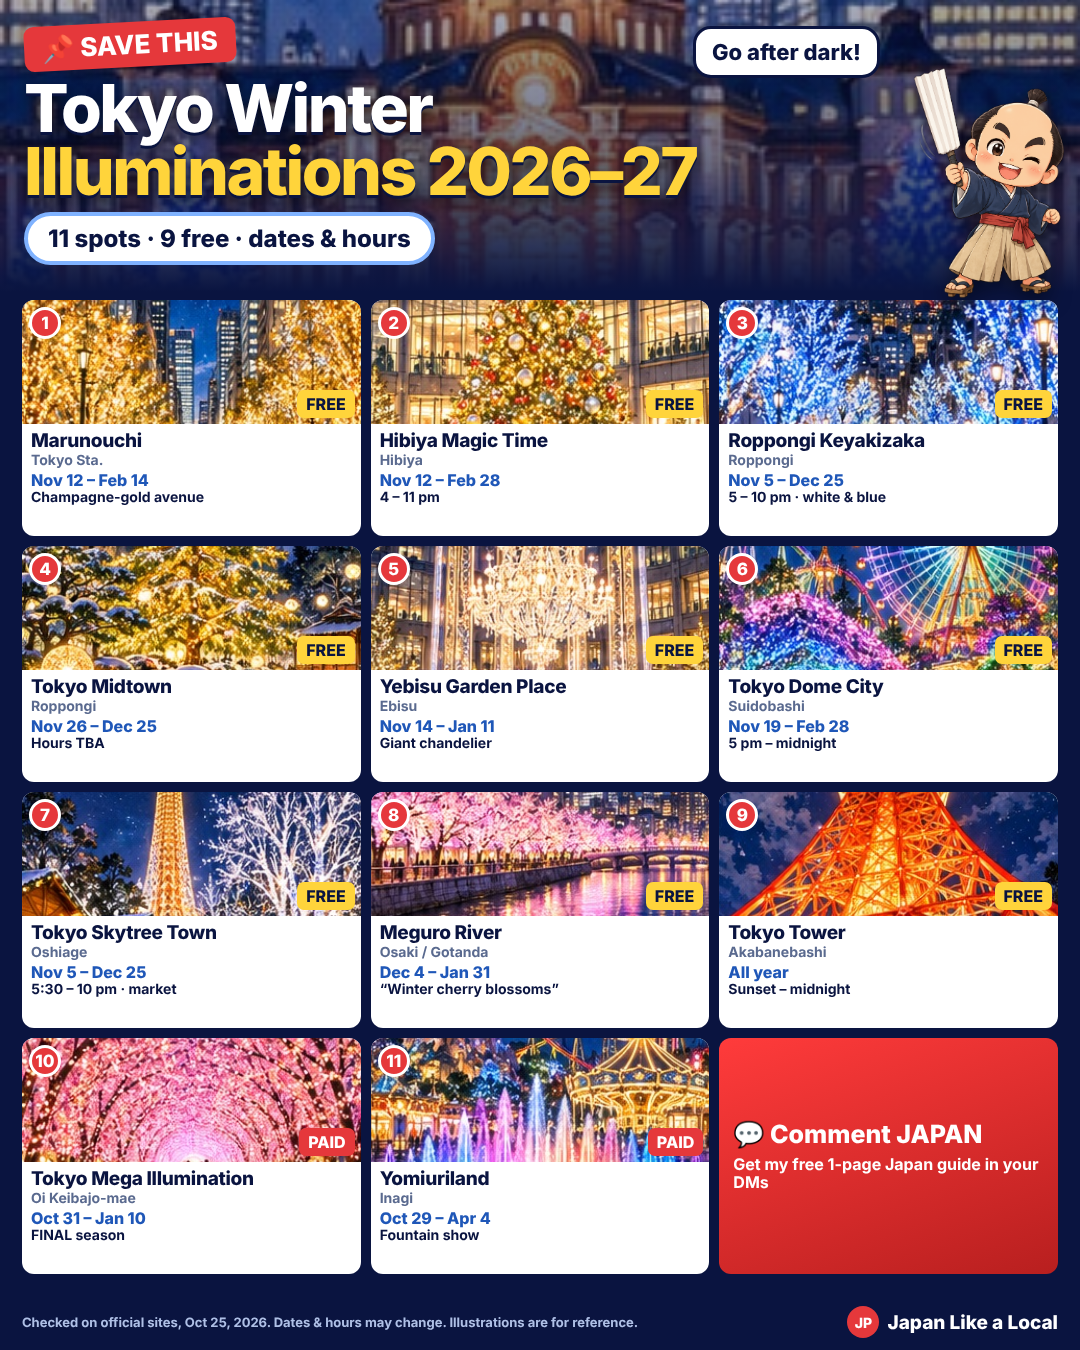
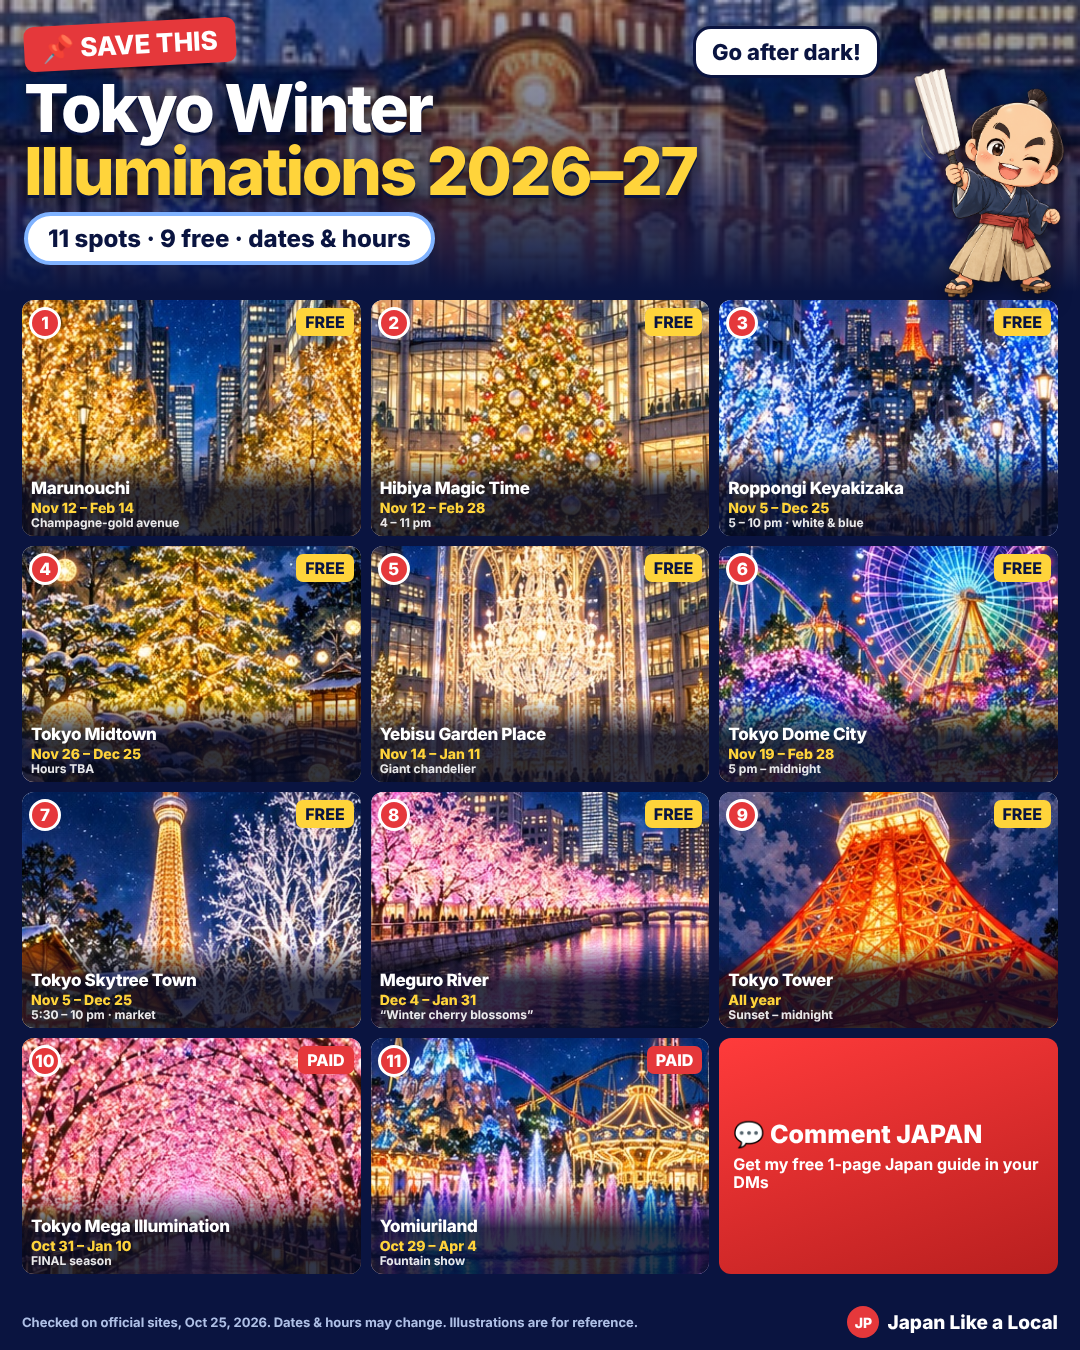
Illuminations: photo-led tiles, smaller text overlay
Claude-Session: https://claude.ai/code/session_01TjagRrtcak9M1F67RG8mqZ

diff --git a/tools/build_illumi.py b/tools/build_illumi.py
@@ -32,15 +32,15 @@ h1 em{{font-style:normal;color:#FFD43B;display:block}}
 .bub{{position:absolute;right:SAMR;top:26px;z-index:3;background:#fff;color:#0A1440;font-weight:800;font-size:22px;padding:10px 16px;border-radius:18px;border:3px solid #0A1440}}
 .grid{{display:grid;grid-template-columns:repeat(3,1fr);gap:10px;padding:8px 22px 0}}
 .c{{background:#fff;border-radius:12px;overflow:hidden;color:#0A1440;position:relative;height:CH}}
-.ph{{height:PH;background-size:cover;background-position:center;position:relative}}
-.n{{position:absolute;left:7px;top:7px;width:32px;height:32px;border-radius:50%;background:#E5383B;border:3px solid #fff;color:#fff;display:flex;align-items:center;justify-content:center;font-weight:800;font-size:17px}}
-.b{{position:absolute;right:6px;bottom:6px;font-weight:800;font-size:16px;padding:4px 9px;border-radius:7px;background:#FFD43B;color:#0A1440}}
+.ph{{position:absolute;inset:0;background-size:cover;background-position:center}}
+.n{{z-index:2;position:absolute;left:7px;top:7px;width:32px;height:32px;border-radius:50%;background:#E5383B;border:3px solid #fff;color:#fff;display:flex;align-items:center;justify-content:center;font-weight:800;font-size:17px}}
+.b{{z-index:2;position:absolute;right:7px;top:8px;font-weight:800;font-size:16px;padding:4px 9px;border-radius:7px;background:#FFD43B;color:#0A1440}}
 .b.p{{background:#E5383B;color:#fff}}
-.tx{{padding:6px 9px 0;line-height:1.15}}
-.nm{{font-weight:800;font-size:19px;letter-spacing:-.3px}}
-.ar{{font-weight:700;font-size:14px;color:#5A6A8F}}
-.dt{{font-weight:800;font-size:16px;color:#1F57B8;margin-top:3px}}
-.ex{{font-weight:700;font-size:14px}}
+.tx{{position:absolute;left:0;right:0;bottom:0;padding:26px 9px 7px;line-height:1.12;color:#fff;background:linear-gradient(rgba(5,10,35,0),rgba(5,10,35,.82) 45%)}}
+.nm{{font-weight:800;font-size:17px;letter-spacing:-.3px}}
+.ar{{display:none}}
+.dt{{font-weight:800;font-size:14px;color:#FFD43B;margin-top:2px}}
+.ex{{font-weight:700;font-size:12px;opacity:.9}}
 .cta{{background:linear-gradient(160deg,#FF3B3B,#B81F1F);color:#fff;padding:14px;display:flex;flex-direction:column;justify-content:center;gap:8px;font-weight:800;font-size:25px;line-height:1.1}}
 .cta small{{font-weight:700;font-size:16px}}
 .ft{{position:absolute;left:22px;right:22px;bottom:12px;display:flex;justify-content:space-between;align-items:center;font-weight:700;font-size:13px;color:#AFC0E6;gap:12px}}
@@ -48,7 +48,7 @@ h1 em{{font-style:normal;color:#FFD43B;display:block}}
 .jp b{{width:32px;height:32px;border-radius:50%;background:#E5383B;display:flex;align-items:center;justify-content:center;font-size:14px}}
 '''
 def page(Wd,Hd,v):
-    cards=''.join(f'<div class=c><div class=ph style="background-image:url({(A/(p+".jpg")).as_uri()})"><span class=n>{i+1}</span><span class="b{" p" if paid else ""}">{"PAID" if paid else "FREE"}</span></div><div class=tx><div class=nm>{nm}</div><div class=ar>{ar}</div><div class=dt>{dt}</div><div class=ex>{ex}</div></div></div>' for i,(p,nm,ar,dt,ex,paid) in enumerate(SPOTS))
+    cards=''.join(f'<div class=c><div class=ph style="background-image:url({(A/(p+".jpg")).as_uri()})"></div><span class=n>{i+1}</span><span class="b{" p" if paid else ""}">{"PAID" if paid else "FREE"}</span><div class=tx><div class=nm>{nm}</div><div class=ar>{ar}</div><div class=dt>{dt}</div><div class=ex>{ex}</div></div></div>' for i,(p,nm,ar,dt,ex,paid) in enumerate(SPOTS))
     cards+='<div class="c cta">💬 Comment JAPAN<small>Get my free 1-page Japan guide in your DMs</small></div>'
     css=CSS
     for k,val in v.items(): css=css.replace(k,val)
